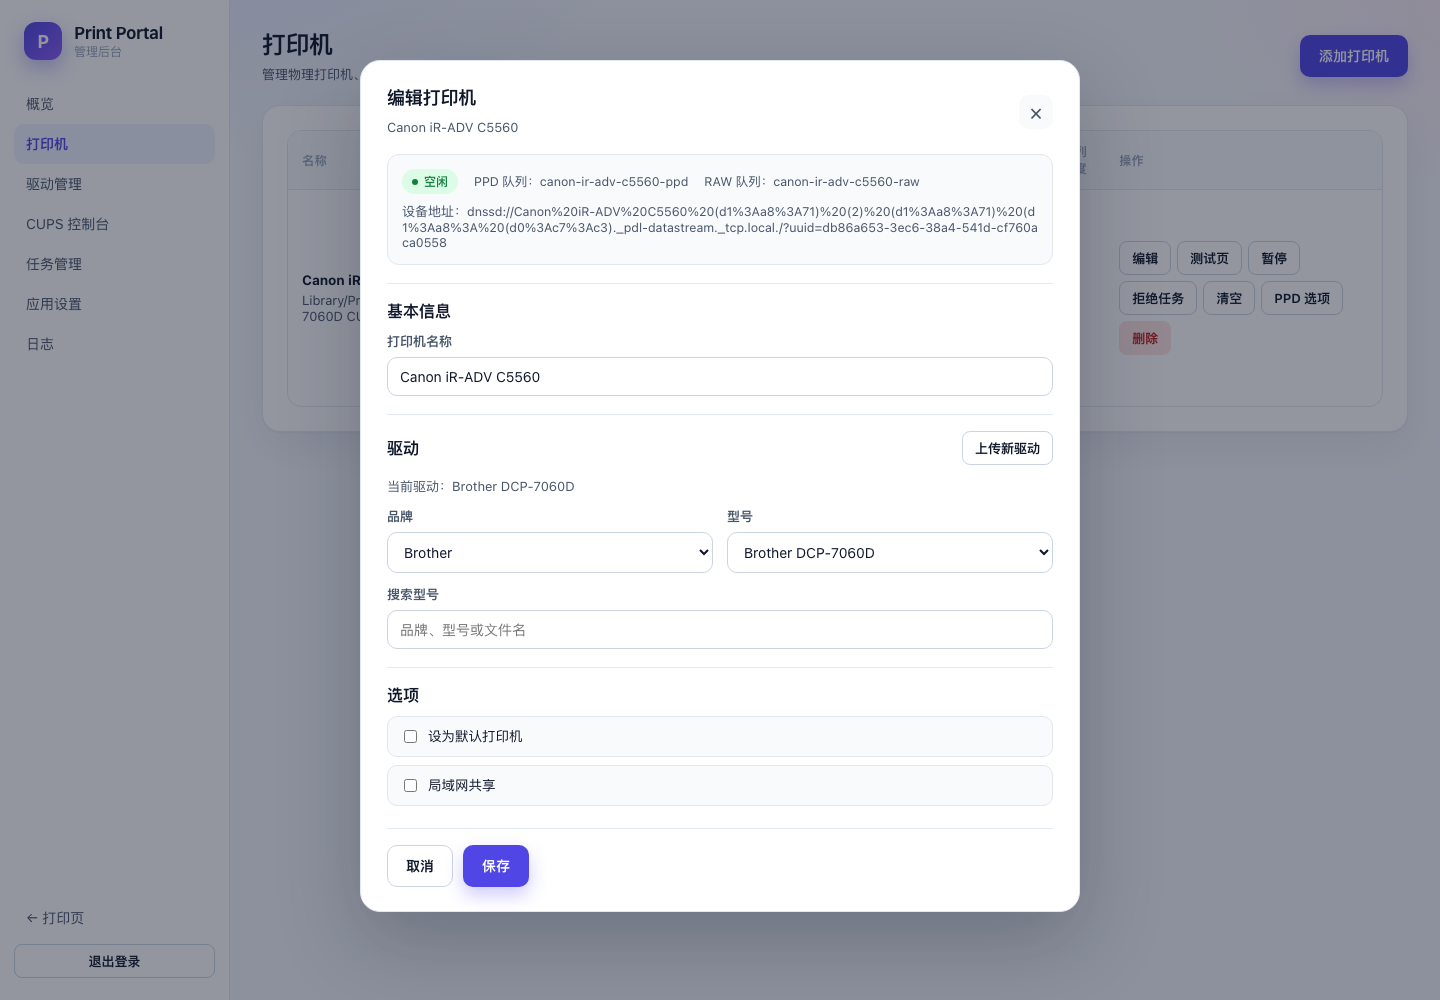
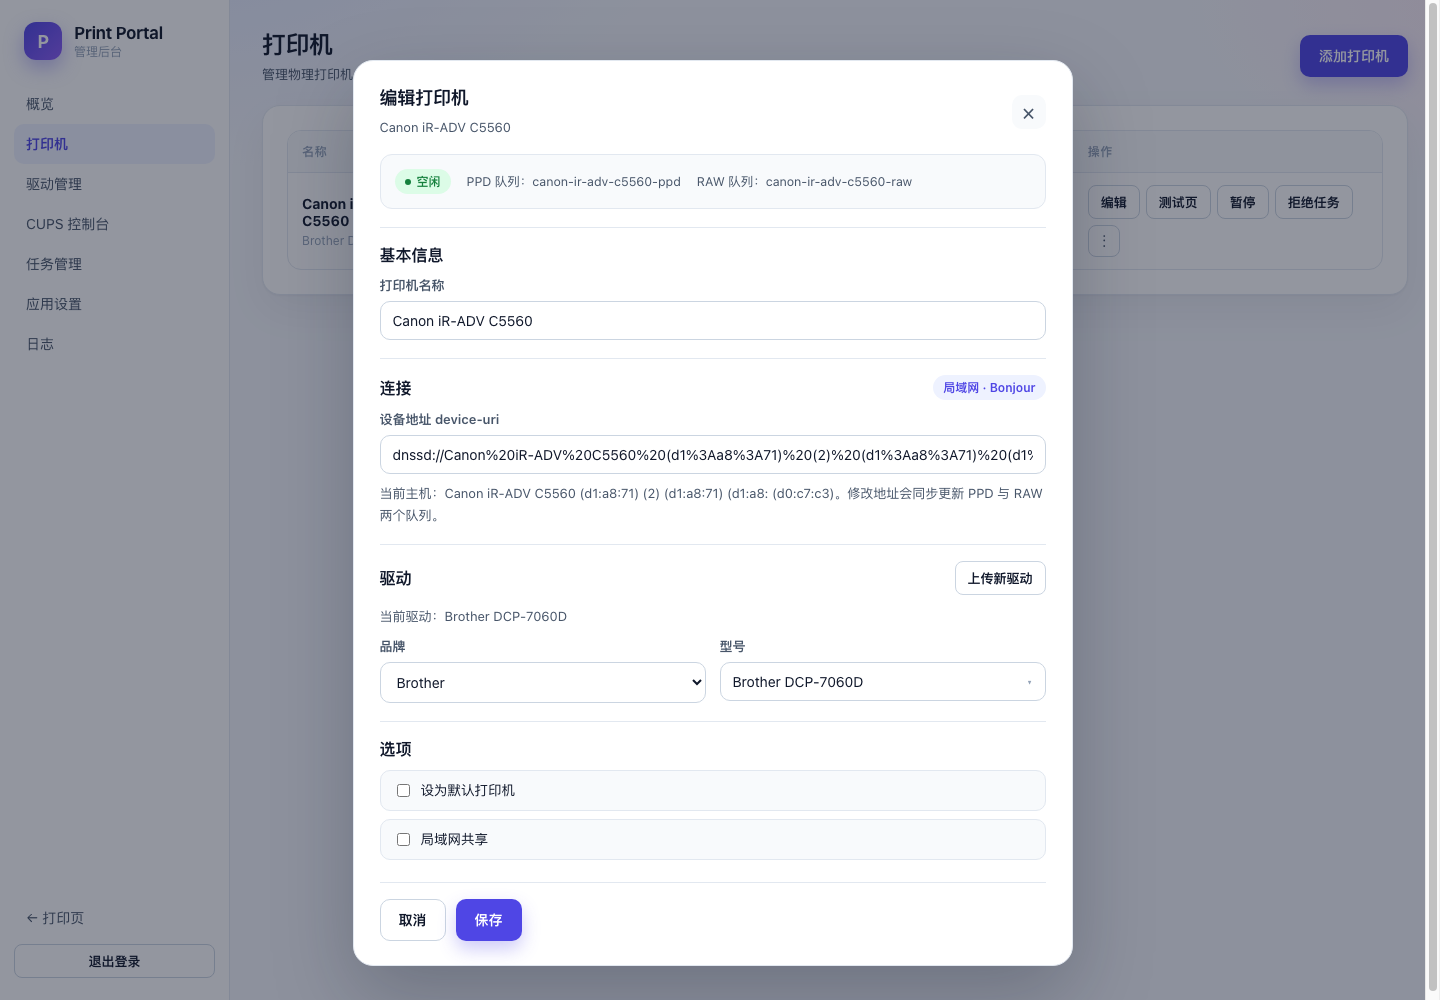
feat: add editable connection settings to printer edit dialog

diff --git a/web/src/views/PrintersView.vue b/web/src/views/PrintersView.vue
@@ -37,7 +37,7 @@ const editingPrinter = ref<AdminPrinter | null>(null)
 const editSaving = ref(false)
 const editUploading = ref(false)
 const editDriverInput = ref<HTMLInputElement | null>(null)
-const editForm = ref({ name: '', model: '', is_default: false, is_shared: true })
+const editForm = ref({ name: '', model: '', device_uri: '', is_default: false, is_shared: true })
 const editBrand = ref('')
 const rowMenu = ref<{ printer: AdminPrinter; top: number; left: number } | null>(null)
 
@@ -110,6 +110,38 @@ const editModelSelectOptions = computed(() => {
     list.unshift({ value: editForm.value.model, label: `当前：${editCurrentDriverLabel.value}`, hint: '当前驱动' })
   }
   return list
+})
+
+const editConnectionKind = computed(() => {
+  const uri = editForm.value.device_uri
+  if (uri.startsWith('usb://')) return 'USB'
+  if (uri.startsWith('dnssd://')) return '局域网 · Bonjour'
+  if (uri.startsWith('ipp://')) return '局域网 · IPP'
+  if (uri.startsWith('ipps://')) return '局域网 · IPPS'
+  if (uri.startsWith('socket://')) return '局域网 · TCP/IP'
+  if (uri.startsWith('lpd://')) return '局域网 · LPD'
+  return '自定义'
+})
+
+const editConnectionTarget = computed(() => {
+  const uri = editForm.value.device_uri
+  if (uri.startsWith('usb://')) {
+    return decodeURIComponent(uri.slice(6).split('?')[0]).replace('/', ' ')
+  }
+  if (uri.startsWith('dnssd://')) {
+    return decodeURIComponent(uri.slice(8)).split('/')[0].split('._')[0]
+  }
+  if (uri.startsWith('ipp://') || uri.startsWith('ipps://')) {
+    try {
+      const parsed = new URL(uri)
+      return parsed.host
+    } catch {
+      /* fall through */
+    }
+  }
+  if (uri.startsWith('socket://')) return uri.slice(9)
+  if (uri.startsWith('lpd://')) return uri.slice(6)
+  return ''
 })
 
 function onWizardBrandChange() {
@@ -389,7 +421,7 @@ function syncEditBrand() {
 
 function openEdit(p: AdminPrinter) {
   editingPrinter.value = p
-  editForm.value = { name: p.name, model: p.model, is_default: p.is_default, is_shared: p.is_shared }
+  editForm.value = { name: p.name, model: p.model, device_uri: p.device_uri, is_default: p.is_default, is_shared: p.is_shared }
   editBrand.value = ''
   if (!models.value.length) loadModels().then(syncEditBrand)
   else syncEditBrand()
@@ -400,6 +432,7 @@ async function saveEdit() {
   if (!p) return
   if (!editForm.value.name.trim()) return toast.error('请输入打印机名称')
   if (!editForm.value.model) return toast.error('请选择驱动 / 型号')
+  if (!editForm.value.device_uri.trim()) return toast.error('请输入设备地址 device-uri')
   editSaving.value = true
   try {
     await api.put(`/api/admin/printers/${encodeURIComponent(p.name)}`, {
@@ -407,7 +440,7 @@ async function saveEdit() {
       model: editForm.value.model,
       ppd_queue: p.ppd_queue,
       raw_queue: p.raw_queue,
-      device_uri: p.device_uri,
+      device_uri: editForm.value.device_uri.trim(),
       is_default: editForm.value.is_default,
       is_shared: editForm.value.is_shared,
     })
@@ -791,7 +824,6 @@ onUnmounted(() => {
             <span>PPD 队列：{{ editingPrinter.ppd_queue }}</span>
             <span>RAW 队列：{{ editingPrinter.raw_queue }}</span>
           </div>
-          <div><span class="admin-sub">设备地址：</span>{{ editingPrinter.device_uri }}</div>
         </div>
 
         <section class="edit-section">
@@ -800,6 +832,20 @@ onUnmounted(() => {
             <label>打印机名称</label>
             <input v-model="editForm.name" class="input" />
           </div>
+        </section>
+
+        <section class="edit-section">
+          <div class="section-head" style="margin-bottom: 10px">
+            <h3 class="wizard-title">连接</h3>
+            <span class="connection-kind">{{ editConnectionKind }}</span>
+          </div>
+          <div class="field">
+            <label>设备地址 device-uri</label>
+            <input v-model="editForm.device_uri" class="input" placeholder="usb://... / ipp://... / socket://..." />
+          </div>
+          <p class="card-desc" style="margin-top: 8px">
+            当前主机：{{ editConnectionTarget || '—' }}。修改地址会同步更新 PPD 与 RAW 两个队列。
+          </p>
         </section>
 
         <section class="edit-section">

diff --git a/web/src/styles.css b/web/src/styles.css
@@ -1351,6 +1351,17 @@ table.table {
   flex-wrap: wrap;
 }
 
+.connection-kind {
+  display: inline-flex;
+  align-items: center;
+  padding: 4px 10px;
+  border-radius: 999px;
+  background: var(--accent-soft);
+  color: var(--accent);
+  font-size: 12px;
+  font-weight: 600;
+}
+
 .edit-section {
   margin-top: 18px;
   padding-top: 16px;
